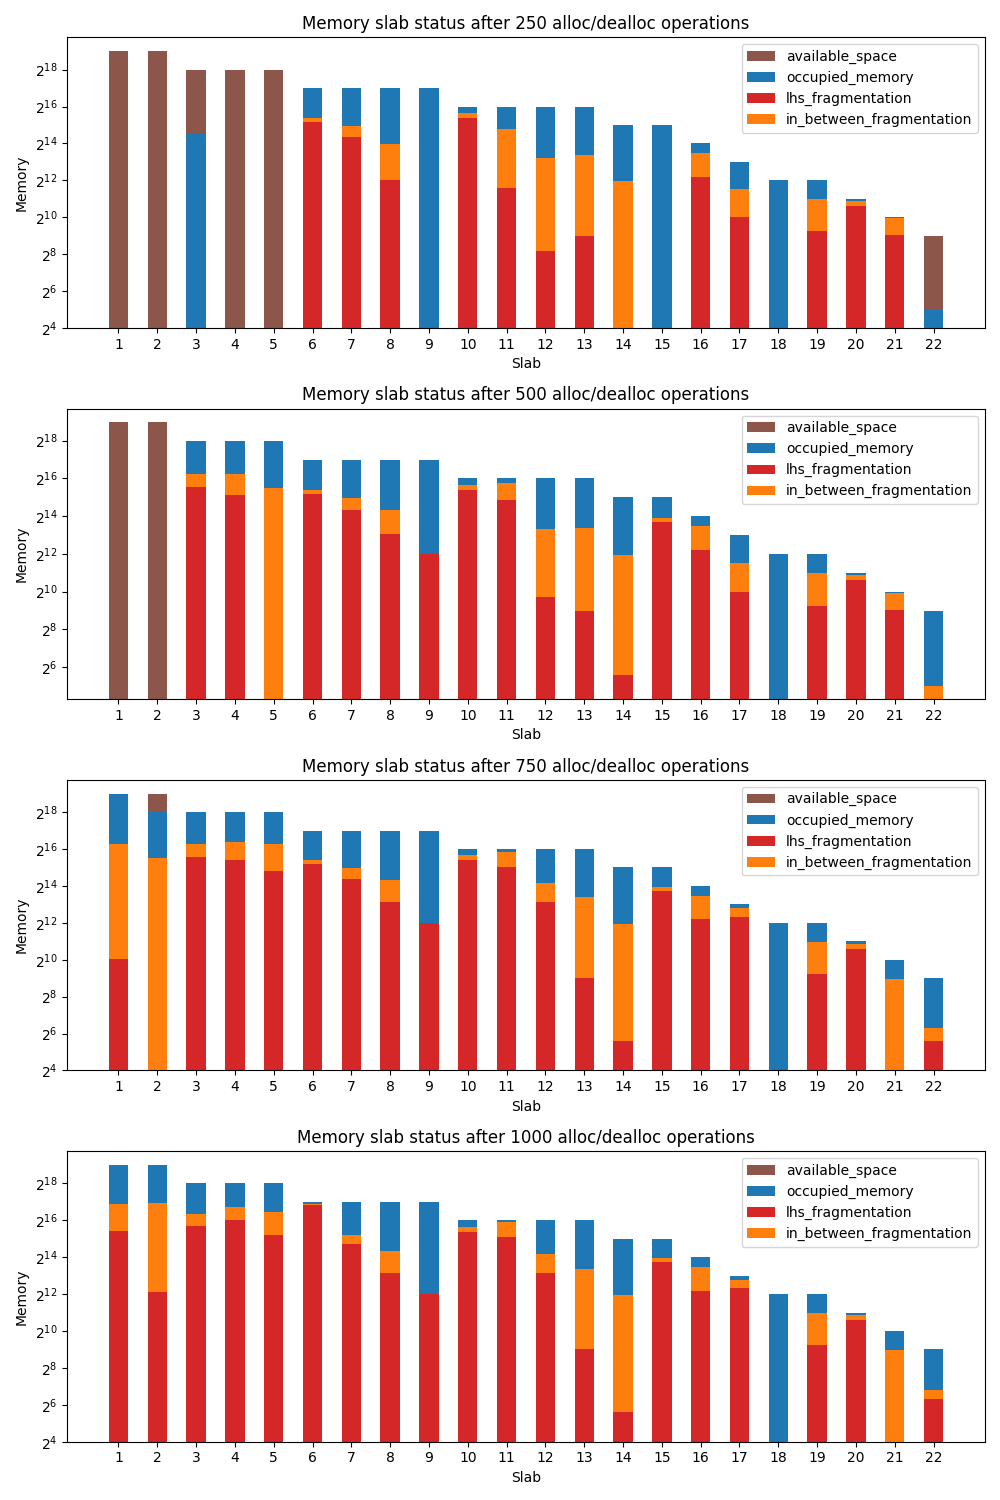
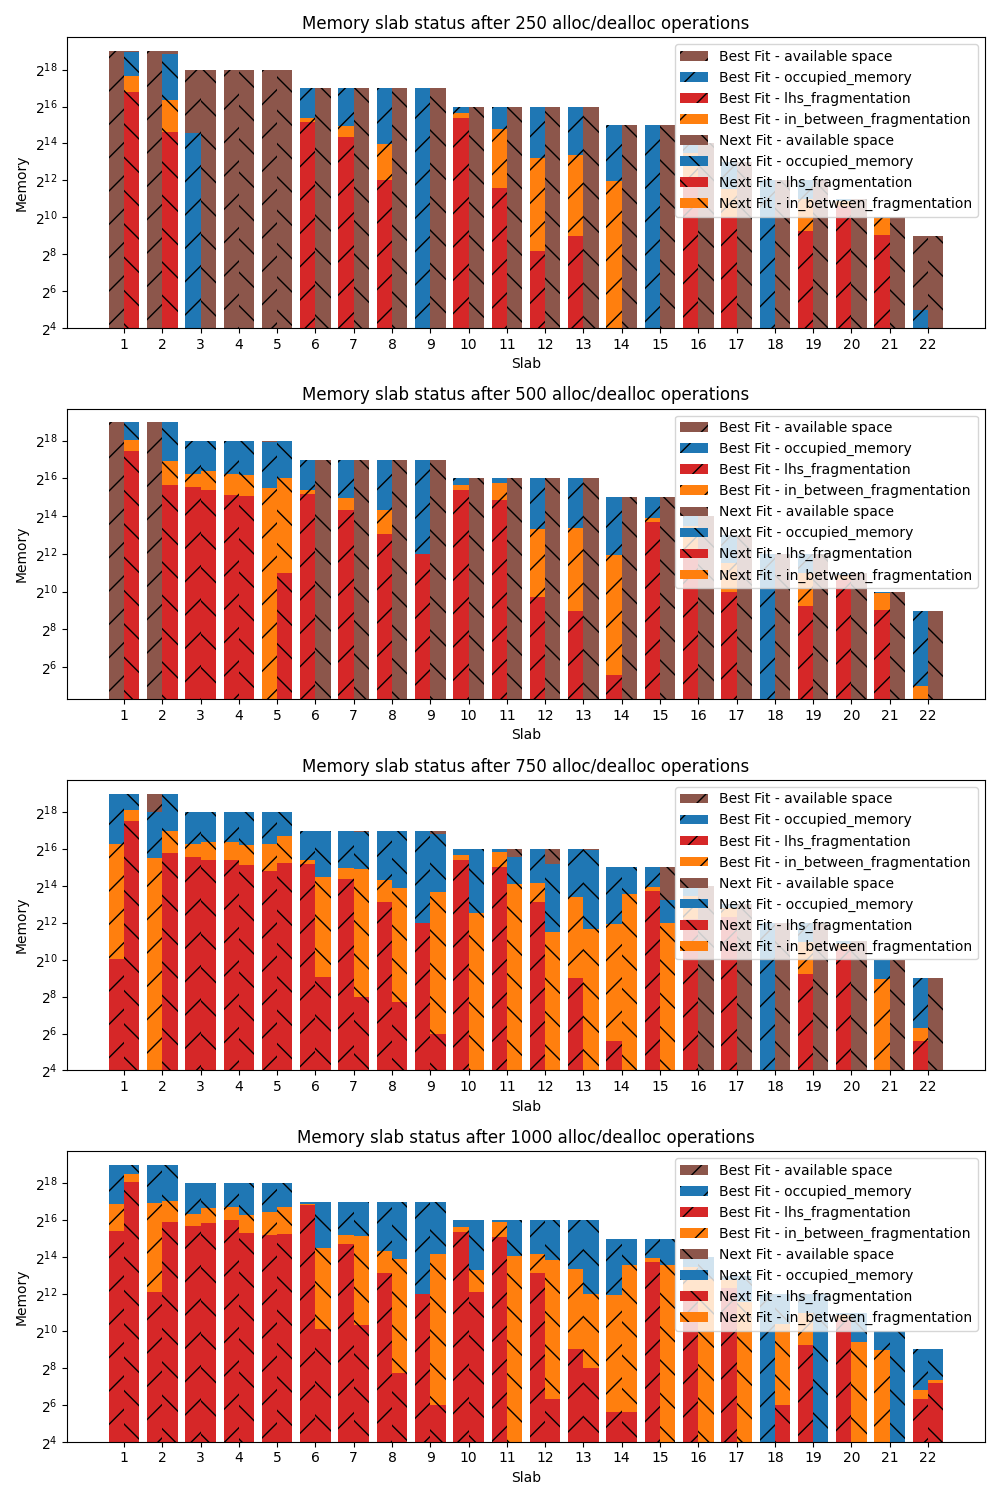
Plot next fit and best fit side by side.

diff --git a/plot_memory_stats_per_slab.py b/plot_memory_stats_per_slab.py
@@ -40,29 +40,39 @@ def process_lines_from_file(file_path: str):
 
     return data
 
-def plot_metrics(data, args: argparse.Namespace):
+def plot_metrics(best_data, next_data, args: argparse.Namespace):
     # Plotting
     fig, axs = plt.subplots(4, figsize=(10, 15))
 
-    bar_width = 0.5
-    index = np.arange(len(data[0]["lhs_fragmentation_per_slab"]))
+    bar_width = 0.4
+    patterns = ['/', '\\']
+    index = np.arange(len(best_data[0]["lhs_fragmentation_per_slab"]))
 
-    for i, row in enumerate(data):
-        (lhs, in_between, occupied, available) = row["lhs_fragmentation_per_slab"], row["in_between_fragmentation_per_slab"], row["occupied_memory_per_slab"], row["available_space_per_slab"]
-        axs[i].bar(index, available, width=bar_width, label='available_space', color='tab:brown')
-        axs[i].bar(index, occupied, width=bar_width, label='occupied_memory', color='tab:blue')
-        axs[i].bar(index, lhs, width=bar_width, label='lhs_fragmentation', color='tab:red')
-        axs[i].bar(index, in_between, bottom=lhs, width=bar_width, label='in_between_fragmentation', color='tab:orange')
+    for i in range(4):
+        row_best, row_next = best_data[i], next_data[i]
+        (best_lhs, best_in_between, best_occupied, best_available) = row_best["lhs_fragmentation_per_slab"], row_best["in_between_fragmentation_per_slab"], row_best["occupied_memory_per_slab"], row_best["available_space_per_slab"]
+        (next_lhs, next_in_between, next_occupied, next_available) = row_next["lhs_fragmentation_per_slab"], row_next["in_between_fragmentation_per_slab"], row_next["occupied_memory_per_slab"], row_next["available_space_per_slab"]
+        
+        axs[i].bar(index-bar_width/2, best_available, width=bar_width, label='Best Fit - available space', color='tab:brown', hatch=patterns[0])
+        axs[i].bar(index-bar_width/2, best_occupied, width=bar_width, label='Best Fit - occupied_memory', color='tab:blue', hatch=patterns[0])
+        axs[i].bar(index-bar_width/2, best_lhs, width=bar_width, label='Best Fit - lhs_fragmentation', color='tab:red',hatch=patterns[0])
+        axs[i].bar(index-bar_width/2, best_in_between, bottom=best_lhs, width=bar_width, label='Best Fit - in_between_fragmentation', color='tab:orange', hatch=patterns[0])
 
-        axs[i].set_title(f"Memory slab status after {data[i]['idx']} alloc/dealloc operations")
+        axs[i].bar(index+bar_width/2, next_available, width=bar_width, label='Next Fit - available space', color='tab:brown', hatch=patterns[1])
+        axs[i].bar(index+bar_width/2, next_occupied, width=bar_width, label='Next Fit - occupied_memory', color='tab:blue', hatch=patterns[1])
+        axs[i].bar(index+bar_width/2, next_lhs, width=bar_width, label='Next Fit - lhs_fragmentation', color='tab:red',hatch=patterns[1])
+        axs[i].bar(index+bar_width/2, next_in_between, bottom=next_lhs, width=bar_width, label='Next Fit - in_between_fragmentation', color='tab:orange', hatch=patterns[1])
+        axs[i].set_title(f"Memory slab status after {best_data[i]['idx']} alloc/dealloc operations")
         axs[i].set_xlabel("Slab")
         axs[i].set_ylabel("Memory")
         axs[i].legend()
 
         axs[i].set_yscale('log', base=2)
         axs[i].set_xticks(index)
-        axs[i].set_xticklabels(range(1, len(lhs)+1))
-        print(f"Best fit: No. failed UntypedRetype invocations: {data[i]['untyped_too_small']}, Out of Memory thrown: {data[i]['oom']}")
+        axs[i].set_xticklabels(range(1, len(best_lhs)+1))
+
+        print(f"Best fit: No. failed UntypedRetype invocations: {best_data[i]['untyped_too_small']}, Out of Memory thrown: {best_data[i]['oom']}")
+        print(f"Next fit: No. failed UntypedRetype invocations: {next_data[i]['untyped_too_small']}, Out of Memory thrown: {next_data[i]['oom']}")
     plt.tight_layout()
     plt.savefig(f"{Path(args.best_fit_log_file).name.split('.')[-2]}.png")
     plt.show()
@@ -95,7 +105,8 @@ if __name__ == "__main__":
     file_path_next_fit = args.next_fit_log_file
 
     # TODO: also plot for next fit, next to best fit
-    data = process_lines_from_file(file_path_best_fit)
+    best_data = process_lines_from_file(file_path_best_fit)
+    next_data = process_lines_from_file(file_path_next_fit)
     print("plotting...")
-    plot_metrics(data, args)
+    plot_metrics(best_data, next_data, args)
 
